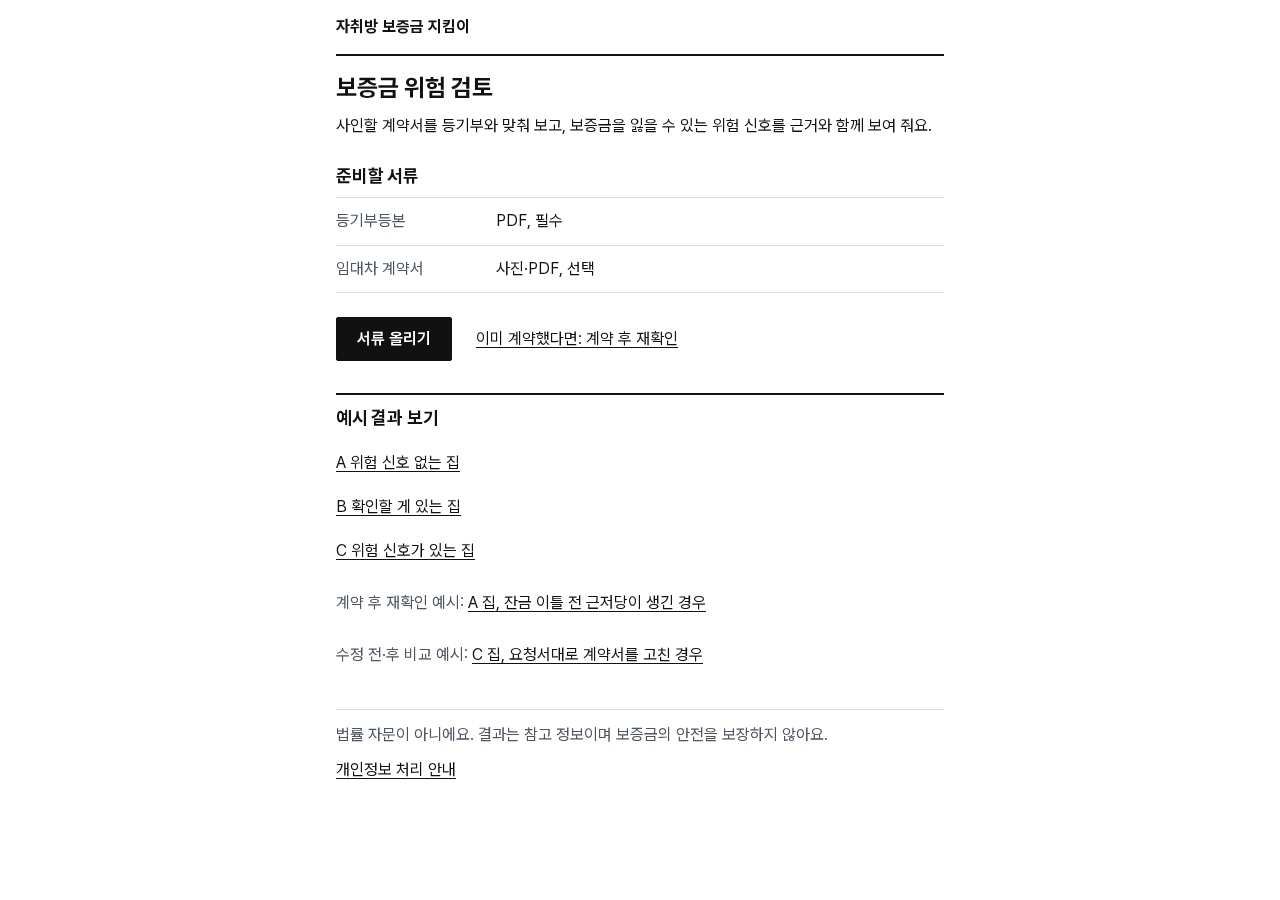
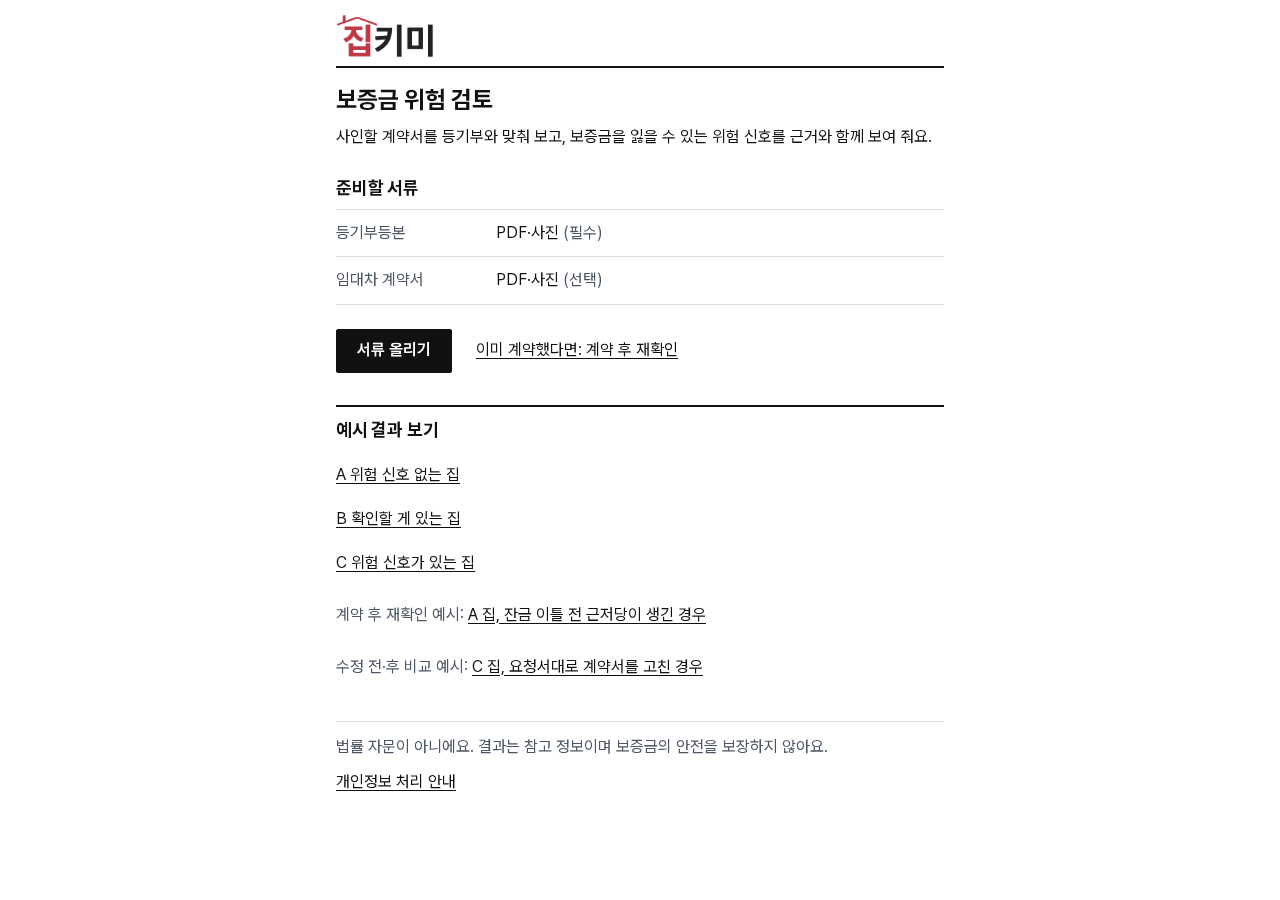
화면 모음을 지금 화면으로 다시 찍고 새 기능 캡처 추가
- screenshots/의 캡처 26장을 집키미 화면으로 다시 찍었다 (새 로고, 쉬운 위험 신호 이름, 어려운 말 밑줄,
  보내기 줄·바로가기, 네모 가리기와 자동 가리기). 촬영은 AI 키를 비운 서버로, 가상 서류만 썼다.
- 새 캡처: 18 사진 확대(−/+), 19 PDF 계약서 자동 가리기, 20 어려운 말 풀이, 21 검토서 PDF 첫·마지막 쪽,
  22 읽은 내용 확인의 [원문 보기].
- screenshots/README.md 설명을 새 화면에 맞게 고치고, README 개인정보 항목의 'PDF 계약서는 가릴 수 없다'를
  자동 가리기 설명으로 바꿨다.

diff --git a/screenshots/README.md b/screenshots/README.md
@@ -1,14 +1,15 @@
-# 화면 모음: 자취방 보증금 지킴이
+# 화면 모음: 집키미 (자취방 보증금 지킴이)
 
-- 촬영: 2026-11-12, Chrome(Chromium) 한국어 설정. 휴대폰은 390px 폭을 2배 해상도로, PC는 1280px 폭으로 페이지 전체를 찍었다.
+- 촬영: 2026-11-14, Chrome(Chromium) 한국어 설정. 휴대폰은 390px 폭을 2배 해상도로, PC는 1280px 폭으로 페이지 전체를 찍었다.
 - 읽은 내용 확인 화면의 [위험 신호 검사] 줄은 실제로는 화면 아래에 고정된다. 캡처에서만 페이지 맨 끝에 보이게 했다.
-- 캡처는 AI를 부르지 않는 상태(키를 비운 서버)로 찍었다. 그래서 서류 올리기 화면은 서류를 읽을 수 있는 상태로 가정해 찍었고(키가 없으면 제목 아래에 빨간 안내 한 줄이 더 나온다), 분석 중 화면은 서버 응답을 붙잡아 둔 채 찍었다. 분석 실패 화면은 키가 없는 서버의 실제 응답 그대로다.
-- 17의 계약서 사진은 캡처용으로 따로 만든 가상 이미지다(이름·주민등록번호·전화번호 모두 가짜).
-- 08은 브라우저의 인쇄(A4)로 만든 PDF의 1쪽을 그림으로 옮긴 것이다. 09는 예시 A에서 계약서만 뺀 입력을 실제 서버로 검사한 결과다.
+- 캡처는 AI를 부르지 않는 상태(키를 비운 서버)로 찍었다. 그래서 서류 올리기 화면은 서류를 읽을 수 있는 상태로 가정해 찍었고(키가 없으면 제목 아래에 빨간 안내 한 줄이 더 나온다), 분석 중 화면은 서버 응답을 붙잡아 둔 채 찍었다. 분석 실패 화면은 키가 없는 서버의 실제 응답 그대로다. 22는 서류 읽기 응답만 예시 C의 값으로 바꿔 넣어 찍었다.
+- 17·18의 계약서 사진은 캡처용으로 따로 만든 가상 이미지다(이름·주민등록번호·전화번호 모두 가짜). 19·22의 PDF는 demo-docs의 가상 서류다.
+- 캡처 속 휴대폰 폭 화면은 마우스로 찍어서 보내기 줄이 컴퓨터용(PDF 내려받기 · 요약 글 공유하기 · 메일로 보내기 · 인쇄하기)으로 나온다. 실제 휴대폰에서는 'PDF로 공유하기 · 요약 글 공유하기'만 보인다.
+- 08은 브라우저의 인쇄(A4)로 만든 PDF의 1쪽을, 21은 [PDF 내려받기]로 만든 검토서 PDF의 쪽 그림을 그대로 옮긴 것이다. 09는 예시 A에서 계약서만 뺀 입력을 검사한 결과다.
 
 ## 01. 시작 · 휴대폰
 
-"사인할 계약서를 등기부와 맞춰 보고…" 소개 한 줄, 준비할 서류 표, 주 버튼 [서류 올리기]와 '이미 계약했다면: 계약 후 재확인' 링크, 예시 결과 링크 A·B·C와 그 아래 '계약 후 재확인 예시: A 집, 잔금 이틀 전 근저당이 생긴 경우', '수정 전·후 비교 예시: C 집, 요청서대로 계약서를 고친 경우', 맨 아래 고지 한 줄과 '개인정보 처리 안내' 링크.
+왼쪽 위 집키미 로고(누르면 언제든 처음 화면), "사인할 계약서를 등기부와 맞춰 보고…" 소개 한 줄, 준비할 서류 표, 주 버튼 [서류 올리기]와 '이미 계약했다면: 계약 후 재확인' 링크, 예시 결과 링크 A·B·C와 그 아래 '계약 후 재확인 예시: A 집, 잔금 이틀 전 근저당이 생긴 경우', '수정 전·후 비교 예시: C 집, 요청서대로 계약서를 고친 경우', 맨 아래 고지 한 줄과 '개인정보 처리 안내' 링크.
 
 ![](01-start-390.png)
 
@@ -20,7 +21,7 @@
 
 ## 02. 서류 올리기 · 빈 상태
 
-계약서 줄 아래 "계약서를 함께 올리면 임대인·호수·특약을 등기부와 대조해요."(계약서를 고르면 사라짐), 형식 안내 한 줄, '계약서가 아직 없으면 직접 입력' 펼치기 줄. 맨 아래에 전송 고지("올린 서류는 내용을 옮겨 적기 위해 OpenAI(미국)로 전송돼요…")와 '개인정보 처리 안내' 링크, '위 내용을 확인했어요' 체크. 등기부를 고르고 체크해야 [분석하기]가 켜진다.
+등기부등본(필수)·계약서(선택) 줄과 형식 안내 한 줄(PDF나 사진, 여러 장이면 한 번에, 파일 하나 10MB·서류마다 30쪽), '계약서가 아직 없으면 직접 입력' 펼치기 줄, 등기부 받는 방법. 맨 아래에 전송 고지("올린 서류는 내용을 옮겨 적기 위해 OpenAI(미국)로 전송돼요…")와 '개인정보 처리 안내' 링크, '위 내용을 확인했어요' 체크. 등기부를 고르고 체크해야 [분석하기]가 켜진다.
 
 ![](02-upload-390.png)
 
@@ -32,7 +33,7 @@
 
 ## 03. 분석 중
 
-제목에 경과 시간(12초), 아래에 단계 표(등기부 · 계약서 · 위험 신호 확인)와 '취소' 링크.
+제목에 경과 시간, 아래에 단계 표(등기부 · 계약서 · 위험 신호 확인)와 '취소' 링크.
 
 ![](03-progress-390.png)
 
@@ -44,13 +45,13 @@
 
 ## 04. 읽은 내용 확인 · 예시 C · 휴대폰
 
-등기부, 갑구, 을구, 계약서, 알고 있는 금액, 함께 확인한 자료를 위에서 아래로 확인하고 고친다.
+등기부, 갑구, 을구, 계약서, 알고 있는 금액, 함께 확인한 자료를 위에서 아래로 확인하고 고친다. 갑구·을구 제목 아래에 어떤 기록이 적힌 곳인지 한 줄씩 있고, 그 안의 압류·근저당·채권최고액은 점선 밑줄을 누르면 풀이가 나온다.
 
 ![](04-review-C-390.png)
 
 ## 04. 읽은 내용 확인 · 예시 C · PC
 
-라벨 | 입력 두 칸 표. 갑구는 순위 · 목적 · 접수일 · 권리자 · 금액 표이고 줄마다 '원문' 링크가 있다.
+라벨 | 입력 두 칸 표. 갑구는 순위 · 목적 · 접수일 · 권리자 · 금액 표이고 줄마다 '원문' 링크가 있다. 실제로 서류를 올린 경우에는 등기부·계약서 제목 오른쪽에 [원문 보기]가 있다(22).
 
 ![](04-review-C-1280.png)
 
@@ -68,19 +69,19 @@
 
 ## 05. 검토서 · 예시 C · 휴대폰
 
-종합 판정 '계약 보류 권장'. 1절 대조표에서 계약서 임대인 '이○○'와 등기부 '○○부동산신탁(주)'가 불일치, 2절 위험 3건 · 주의 2건, 3절 계약서 수정 요청서(가. 고칠 곳 · 나. 특약 · 다. 받을 서류, 항목은 1) 2) 3))와 그 아래 '요청서대로 고친 계약서를 받았나요? 수정된 계약서 올리기' 링크, 4절 계약 일정의 잔금일 줄에 '잔금 전 재확인' 링크.
+종합 판정 '계약 보류 권장'과 그 아래 보내기 줄·바로가기(지도·실거래가·세움터·인터넷등기소). 1절 대조표에서 계약서 임대인 '이○○'와 등기부 '○○부동산신탁(주)'가 불일치. 2절 위험 신호는 쉬운 이름을 앞에, 공식 용어를 괄호에 둔다(집주인이 아닌 사람과 계약 (임대인·소유자 불일치), 신탁회사 소유 (신탁등기) …). 위임장·근저당·확정일자 같은 말에는 옅은 점선 밑줄이 있다. 3절 계약서 수정 요청서(가. 고칠 곳 · 나. 특약 · 다. 받을 서류)와 '수정된 계약서 올리기' 링크, 4절 계약 일정의 잔금일 줄에 '잔금 전 재확인' 링크, 맨 아래 접힌 '참고'와 '어려운 말 풀이', 그리고 다시 보내기 줄.
 
 ![](05-report-C-390.png)
 
 ## 05. 검토서 · 예시 C · PC
 
-대조표는 항목 | 계약서 | 등기부·시세 | 결과 네 칸 표. 위험 신호는 번호 · 판정 · 규칙 이름이 한 줄이고 내용은 제목 아래에 맞춘다.
+대조표는 항목 | 계약서 | 등기부·시세 | 결과 네 칸 표. 위험 신호는 번호 · 판정 · 이름이 한 줄이고 내용은 제목 아래에 맞춘다.
 
 ![](05-report-C-1280.png)
 
 ## 05. 검토서 · 예시 C · 모두 펼침
 
-근거 원문 인용, '해당 없음 (8건)', '참고: 등기부만으로는 알 수 없는 것'을 모두 펼친 상태.
+근거 원문 인용, '해당 없음 (8건)', '참고: 등기부만으로는 알 수 없는 것', '어려운 말 풀이'(이 검토서에 나온 말만 모은 풀이)를 모두 펼친 상태.
 
 ![](05-report-C-evidence-390.png)
 
@@ -92,7 +93,7 @@
 
 ## 07. 검토서 첫 화면 · 예시 C · 휴대폰
 
-문서 머리부터 휴대폰 한 화면(390×844) 만큼. 종합 판정 바로 아래에 대조표 임대인 줄(이○○ / ○○부동산신탁(주), 위험 불일치)이 함께 보인다.
+문서 머리부터 휴대폰 한 화면(390×844) 만큼. 종합 판정 바로 아래에 보내기 줄과 바로가기가 함께 보인다.
 
 ![](07-compare-C-390.png)
 
@@ -128,7 +129,7 @@
 
 ## 13. 수정 전·후 비교서 · 휴대폰
 
-예시 'C 집, 요청서대로 계약서를 고친 경우'. 머리 표는 대상 → 요청 반영(가장 크게, 5건 중 5건 반영) → 남은 위험(신탁등기 · 시세 대비 보증금 비율 · 최근 소유권 변동) → 종합 판정(계약 보류 권장, 수정 전과 같아요) → 개수 변화(위험 3건 → 2건 · 주의 2건 → 1건 · 해당 없음 8건 → 10건) → 기준일 순서다. 요청서를 다 반영해도 집 자체의 위험은 남는다는 것을 첫 화면에서 보여 준다. 1절 요청서 반영은 고칠 곳 · 특약(이름별) · 받을 서류(직접 확인)로 묶고, 2절 위험 신호 변화는 개선된 것과 위험·주의가 남은 것을 펼쳐 두고 '해당 없음 그대로 (8건)'만 접는다. 3절 바뀐 계약 내용(임대인, 추가된 특약 4개).
+예시 'C 집, 요청서대로 계약서를 고친 경우'. 머리 표는 대상 → 요청 반영(가장 크게, 5건 중 5건 반영) → 남은 위험 → 종합 판정(계약 보류 권장, 수정 전과 같아요) → 개수 변화 → 기준일 순서다. 요청서를 다 반영해도 집 자체의 위험은 남는다는 것을 첫 화면에서 보여 준다. 1절 요청서 반영, 2절 위험 신호 변화(쉬운 이름), 3절 바뀐 계약 내용.
 
 ![](13-compare-result-390.png)
 
@@ -146,13 +147,13 @@
 
 ## 16. 개인정보 처리 안내
 
-시작 화면 아래와 전송 고지의 링크로 여는 화면. 받는 정보 · 쓰는 목적 · 보내는 곳(보내는 것은 올린 파일뿐, OpenAI(미국), 직접 입력한 값은 보내지 않음) · 보관 기간(우리 서버는 저장하지 않음, OpenAI는 학습에 쓰지 않고 남용 감시 기록 최대 30일) · 직접 할 수 있는 일 · 동의하지 않을 때.
+시작 화면 아래와 전송 고지의 링크로 여는 화면. 받는 정보 · 쓰는 목적 · 보내는 곳(올린 파일만 OpenAI(미국)로, 시세·건축물대장은 동 이름·지역 번호·번지만 공공 API로) · 보관 기간(우리 서버는 저장하지 않음) · 개인정보를 지키는 방법(계약서 사진·PDF의 번호 자동 가리기와 네모 가리기, 결과 화면의 주민등록번호·전화번호 가림, 가리기 예시 사진) · 동의하지 않을 때.
 
 ![](16-privacy-390.png)
 
 ## 17. 보내기 전에 가리기 · 휴대폰
 
-계약서 사진을 고르면 '보내기 전에 가리기'로 사진 위를 칠하거나 네모로 가릴 수 있다. 이 캡처는 주민등록번호·전화번호 두 줄과 서명 두 곳을 네모로 가린 상태(가린 곳 4군데). 가린 사진만 전송된다. 되돌리기 · 다 지우기.
+계약서 사진을 고르면 가리기 창이 바로 열리고, 기기 안의 글자 읽기(OCR)로 주민등록번호·전화번호를 찾아 먼저 검게 가린다(자동 4군데). 그 위에 서명 자리 두 곳을 네모로 끌어 더 가린 상태(가린 곳 6군데, 자동 4군데 포함). 사진 오른쪽 위의 − 100% + 로 키울 수 있다. 가린 사진만 전송된다. 되돌리기 · 다 지우기.
 
 ![](17-mask-390.png)
 
@@ -161,3 +162,35 @@
 같은 화면을 PC 폭에서 마우스로.
 
 ![](17-mask-1280.png)
+
+## 18. 보내기 전에 가리기 · 확대
+
+[+]를 두 번 눌러 200%로 키운 모습. 작은 글자도 정확히 가릴 수 있고, 휴대폰은 두 손가락으로 끌어(컴퓨터는 스크롤) 사진을 옮긴다. −/+는 사진을 옮겨도 그 자리에 있다.
+
+![](18-mask-zoom-390.png)
+
+## 19. PDF 계약서 가리기
+
+계약서 PDF(demo-docs의 C-계약서.pdf)를 고른 모습. PDF를 기기 안에서 쪽마다 그림으로 바꾸고, 글자 층에서 주민등록번호·전화번호·계좌번호 모양을 찾아 가린다(스캔 PDF는 OCR로). 가린 곳이 있으면 글자를 모두 지운 그림 PDF로 다시 만들어 보내고, 없으면 원래 PDF를 그대로 보낸다. 여러 쪽이면 위에 '1쪽 (1) · 2쪽 (3)'처럼 쪽을 골라 더 가린다.
+
+![](19-mask-pdf-390.png)
+
+## 20. 어려운 말 풀이
+
+예시 C 첫 위험 신호에서 점선 밑줄 '위임장'을 누른 모습. 그 글 끝에 한두 줄 풀이가 나오고, 다시 누르면 닫힌다. 같은 말은 글마다 처음 나온 곳에만 밑줄을 친다.
+
+![](20-glossary-390.png)
+
+## 21. 검토서 PDF 파일
+
+[PDF 내려받기](휴대폰은 [PDF로 공유하기])로 만든 A4 PDF. 접힌 근거·목록을 펼치고 버튼·밑줄·펼친 풀이는 뺀다. 쪽마다 아래에 문서 이름과 쪽 번호가 있고, 마지막 쪽에 '어려운 말 풀이'가 들어간다. 서버로 보내지 않고 브라우저 안에서 만든다.
+
+![](21-report-pdf-1.jpg)
+
+![](21-report-pdf-last.jpg)
+
+## 22. 읽은 내용 확인 · 원문 보기
+
+실제로 서류를 올렸을 때 등기부 제목 오른쪽의 [원문 보기]를 누른 모습. 올린 서류를 '등기부 1쪽, 2쪽…'처럼 제목 아래에 펼쳐서 AI가 읽은 칸과 바로 맞춰 본다. 쪽 번호는 근거의 '등기부 2쪽'과 같다. 계약서는 가려서 보낸 그대로 보여 준다.
+
+![](22-original-390.png)

diff --git a/README.md b/README.md
@@ -180,7 +180,7 @@ docker run -p 8000:8000 -e OPENAI_API_KEY=... -e DATA_GO_KR_SERVICE_KEY=... -e J
 - 주민등록번호(하이픈 없는 형태, 일부만 가린 형태 포함)와 전화번호는 서버 응답과 화면 양쪽에서 가린다.
 - 서류 내용은 분석을 위해 AI API로 전송된다. 기본은 OpenAI(미국)이며, 올리기 전에 이 사실을 알리고 동의를 받는다.
   - OpenAI API로 보낸 데이터는 기본적으로 학습에 쓰이지 않는다. 응답 저장은 끈다(`store: false`). 다만 남용 감시 기록은 OpenAI 쪽에 최대 30일 남을 수 있다 ([OpenAI 안내](https://developers.openai.com/api/docs/guides/your-data)).
-  - 계약서 사진은 보내기 전에 사용자가 직접 가릴 수 있다. PDF 계약서는 가릴 수 없으므로 화면에서 사진으로 올리라고 안내한다.
+  - 계약서 사진과 PDF는 보내기 전에 브라우저 안에서 주민등록번호·전화번호·계좌번호를 자동으로 찾아 가리고, 사용자가 네모로 더 가린다. 가린 PDF는 글자 층 없이 가린 그림만 담은 PDF로 다시 만들어 보낸다 (가린 번호가 파일에 남지 않는다).
 - PDF 검사는 메모리·시간 제한을 둔 별도 프로세스에서 하고, 그 프로세스에는 환경변수(API 키)를 넘기지 않는다.
 - 시세를 찾을 때는 등기부 주소 중 '시도 시군구 읍면동'까지만 행정안전부 주소 API로, 시군구 코드와 연월만 국토교통부 실거래가 API로 보낸다. 같은 건물인지는 받은 거래를 서버에서 번지로 맞춰 본다.
 - 건축물대장은 지역 코드와 번지로만 찾는다. 호수는 보내지 않고 건물 전체 전유부를 받아 서버에서 내 호실을 고른다. 이름은 어느 공공 API에도 보내지 않는다. 요청 주소에 인증키가 들어가므로 httpx 요청 로그는 끈다.
